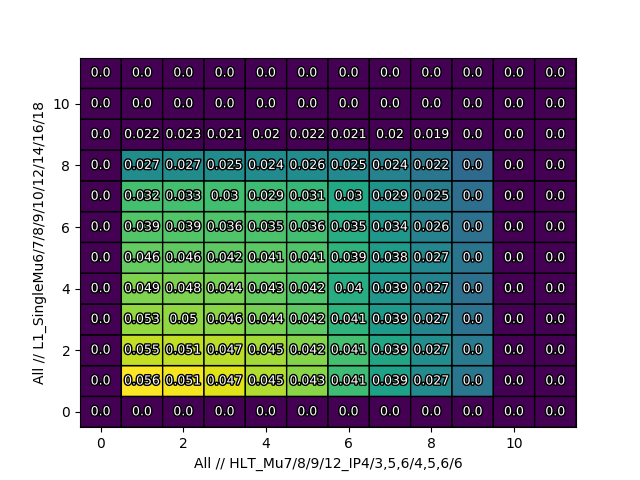
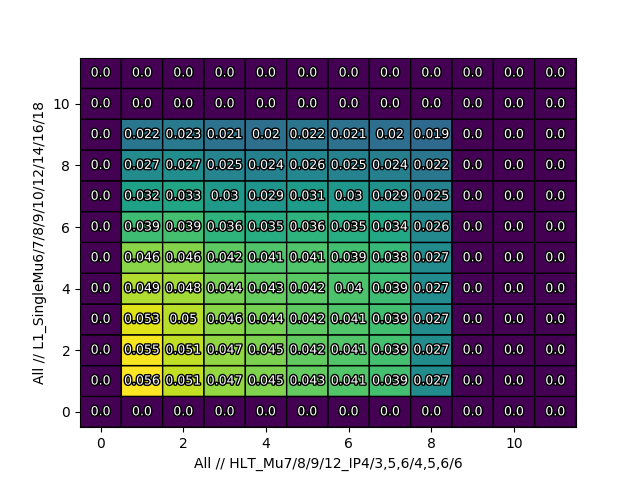
Fixed transpose bug with hist 2D

Changed region(s): [[0.1875, 0.375, 0.6562, 0.8438], [0.1875, 0.25, 0.7812, 0.8438]]

diff --git a/analib.py b/analib.py
@@ -124,7 +124,7 @@ class Hist2d(object):
     def make(s,edgecolor='',linewidth=1):
         plt.clf()
         #out = plt.imshow(s.hs[0].T[::-1],extent=(s.bounds[0][0],s.bounds[0][1],s.bounds[1][0],s.bounds[1][1]),aspect='auto',origin='upper')
-        out = plt.pcolor(s.hs[1],s.hs[2],s.hs[0],edgecolor=edgecolor,linewidth=linewidth)
+        out = plt.pcolor(s.hs[2],s.hs[1],s.hs[0].T,edgecolor=edgecolor,linewidth=linewidth)
         return out    
 
     def plot(s,logv=False,text=False,edgecolor='',linewidth=1):
